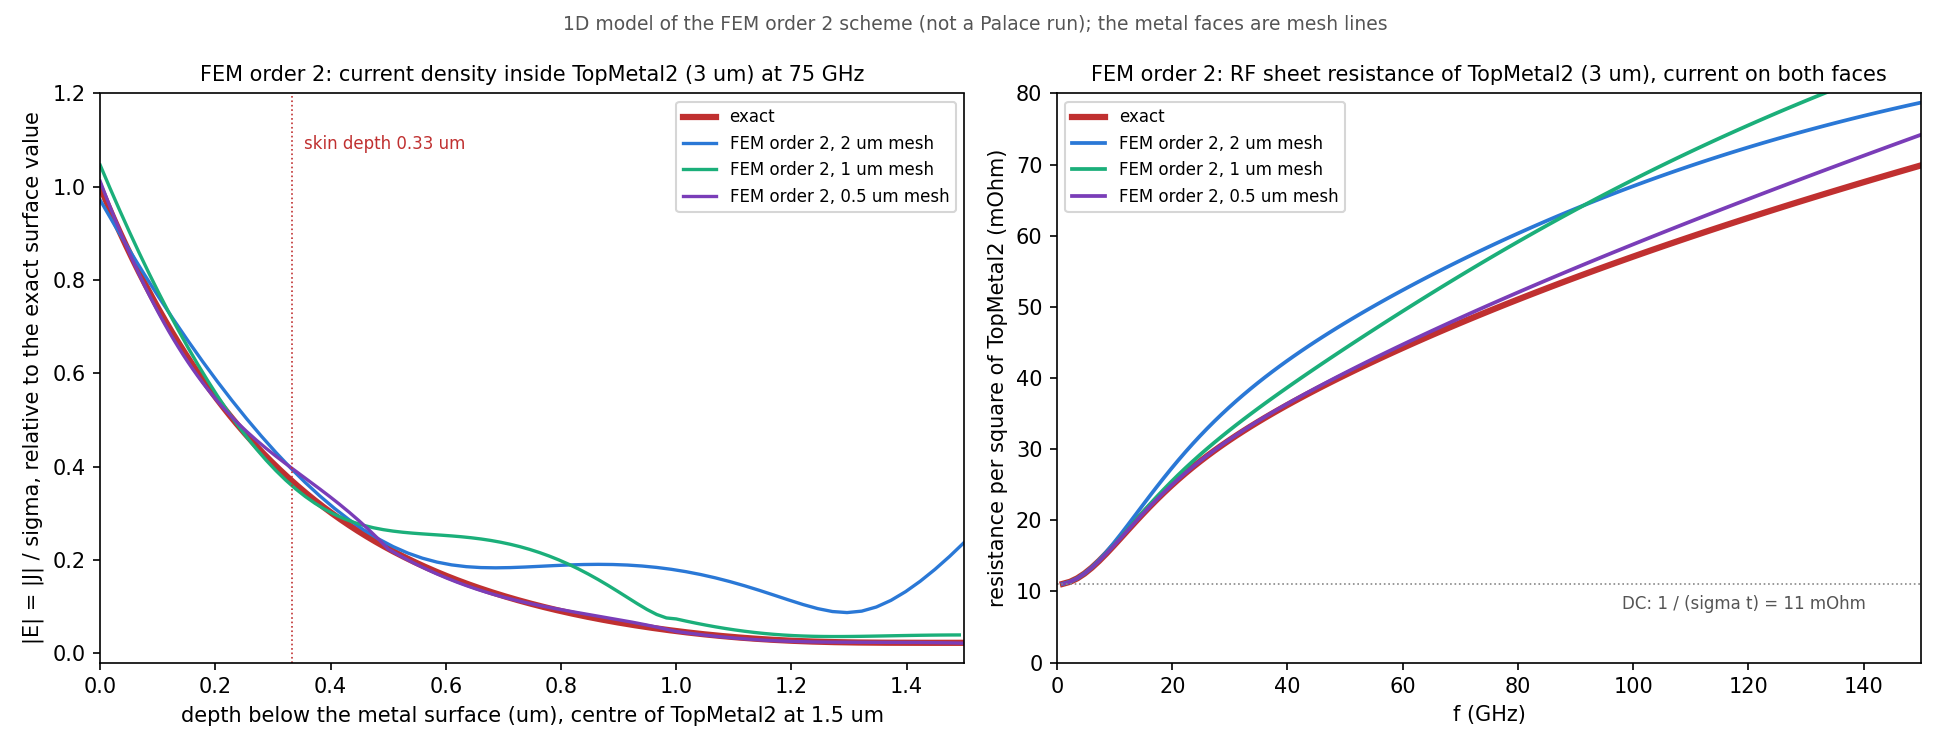
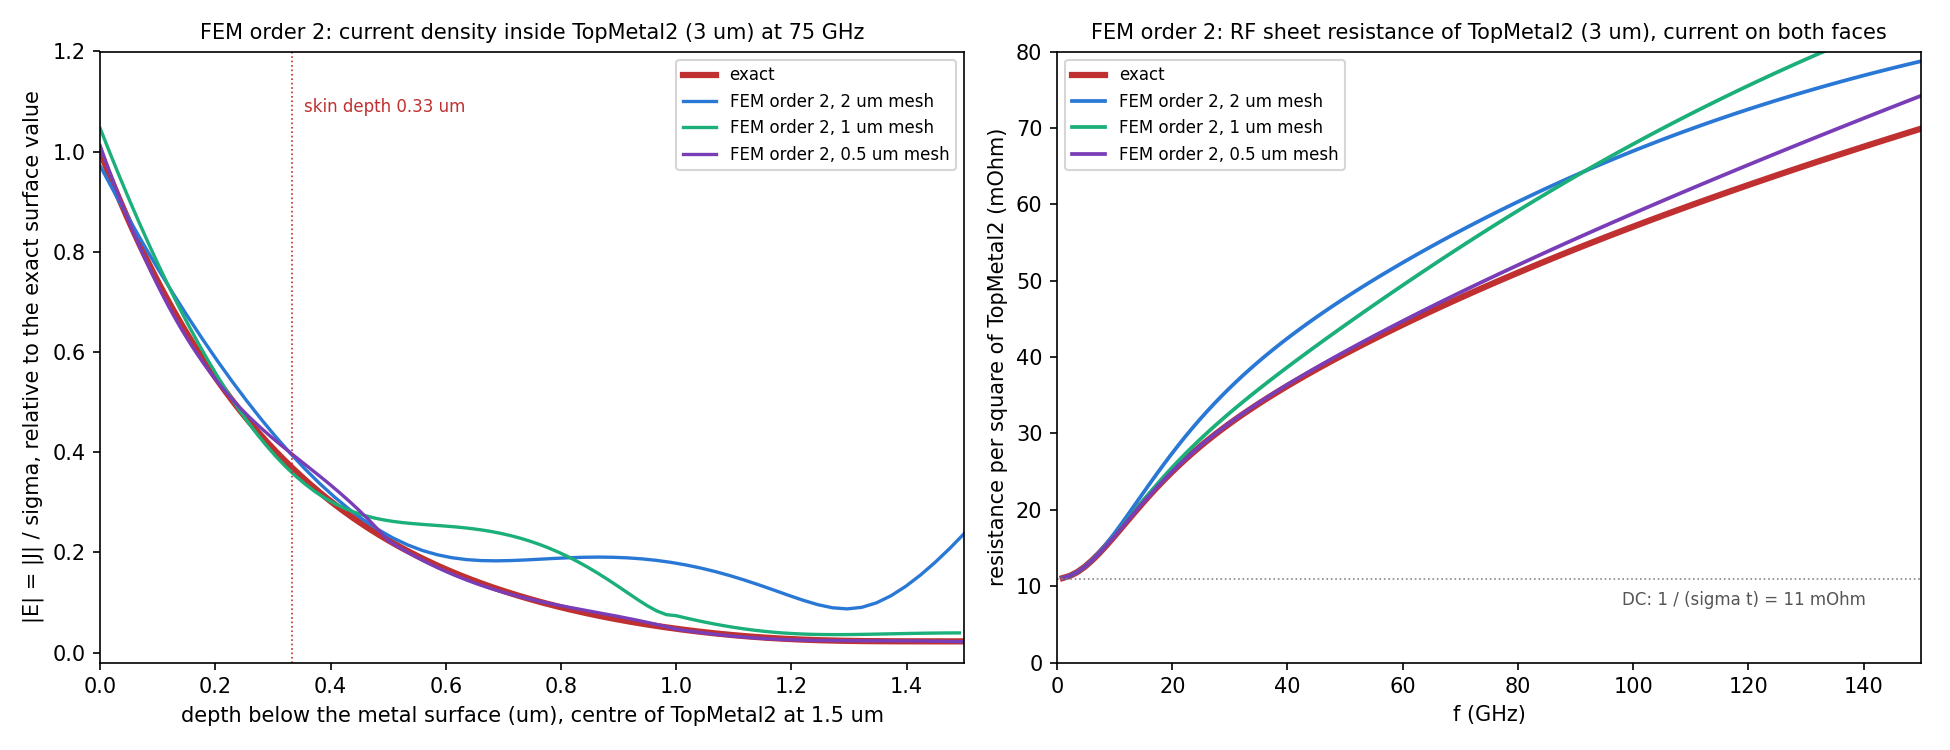
L6n2 study v3: skin effect note, much less critical than expected
The note that a volume mesh must mesh into the skin effect is rephrased: second order FEM
follows the current decay even with cells several skin depths thick; the figure compares it
with the exact solution, and the error table shows when a finer mesh is needed (mm-wave).

diff --git a/more_examples/measured_vs_simulated/more_accurate_models_L6n2_v3/results/skin_1d_fem.py b/more_examples/measured_vs_simulated/more_accurate_models_L6n2_v3/results/skin_1d_fem.py
@@ -96,8 +96,6 @@ def figure(method, solve, meshes, filename, fr, ref):
     ax2.set_ylabel('resistance per square of TopMetal2 (mOhm)')
     ax2.set_title(f'{method}: RF sheet resistance of TopMetal2 (3 um), current on both faces', fontsize=10)
     ax2.legend(fontsize=8, loc='upper left')
-    fig.suptitle('1D model of the FEM order 2 scheme (not a Palace run); the metal faces are mesh lines',
-                 fontsize=9, color='#555555')
     fig.tight_layout()
     fig.savefig(os.path.join(HERE, 'plots', filename), dpi=150)
     plt.close(fig)

diff --git a/more_examples/measured_vs_simulated/more_accurate_models_L6n2_v3/README.md b/more_examples/measured_vs_simulated/more_accurate_models_L6n2_v3/README.md
@@ -148,13 +148,11 @@ Volume meshing of filled conductors means more mesh cells and more memory. The s
 
 What is not shown in this table: Palace also calculates internal "quality" metrics from the FEM solution. These error indicator values are approximately twice as much for the volume mesh model. This indicates that we might need a smaller refined_cellsize value for the volume mesh model. We will come back to that later, for the "ultimate" final model with best accuracy.
 
-**IMPORTANT NOTE:  For accurate loss calculation, volume mesh requires to mesh into skin effect! In this frequency range here, δ = 0.91µm @ 10 GHz, so we might be already on the edge: mesh refined along the edges is enforced by settings['refined_cellsize']=2 micron here. This gets even harder at higher frequencies where the skin depth becomes much smaller than 1 µm, e.g. 0.41µm @ 50 GHz and 0.2 µm @ 200 GHz.**
+**Note on skin effect:** with a volume mesh, the current distribution inside the conductor must be resolved, and the skin depth of TopMetal2 is smaller than the 2 µm mesh above a few GHz (δ = 0.91 µm @ 10 GHz, 0.41 µm @ 50 GHz). This turned out to be much less critical than expected: the second order finite elements used by Palace follow the current decay into the metal even when a mesh cell is several skin depths thick. The plot below compares them with the exact solution for the 3 µm thick TopMetal2, where a 2 µm mesh means two cells of 1.5 µm through the metal. Left: current density from the surface to the centre of the metal at 75 GHz. Right: RF resistance per square of TopMetal2, which starts at the DC value of 11 mΩ and rises as the current moves to the surfaces.
 
-How far off is a filled metal when the cells are larger than the skin depth? The plot below answers this for the 3 µm thick TopMetal2 with a simple 1D model: the field across the metal, computed with the same order 2 finite elements that Palace uses, compared with the exact solution ([results/skin_1d_fem.py](results/skin_1d_fem.py)). A 2 µm mesh means two cells of 1.5 µm through the metal. Left: current density from the surface to the centre of the metal at 75 GHz. Right: the RF resistance per square of TopMetal2, which starts at the DC value of 11 mΩ and rises as the current moves to the surfaces.
+![Order 2 FEM vs. exact solution: current density inside TopMetal2 and RF sheet resistance for different mesh sizes](results/plots/skin_1d_fem.png)
 
-![FEM order 2: current density inside TopMetal2 and RF sheet resistance for different mesh sizes](results/plots/skin_1d_fem.png)
-
-Inside each cell, the order 2 elements let the field bend, so even a 1.5 µm cell follows the decay near the surface quite well. But it leaves some current too deep in the metal, so the resistance comes out too high once the skin depth is a fraction of the cell size:
+Only when the skin depth is a fraction of the cell size, some current is left too deep in the metal, and the resistance comes out too high:
 
 | mesh | 10 GHz | 20 GHz | 50 GHz | 100 GHz |
 |---|---:|---:|---:|---:|
@@ -162,7 +160,7 @@ Inside each cell, the order 2 elements let the field bend, so even a 1.5 µm cel
 | 1 µm | +0.5 % | +2.3 % | +9 % | +19 % |
 | 0.5 µm | 0 % | 0 % | +0.7 % | +3 % |
 
-For this inductor, with SRF at 11 GHz, the 2 µm mesh is good enough: the 1D model predicts an error of about 2 % in conductor loss at 10 GHz, and the 1 µm "ultimate" model in section 7 indeed changes peak Q by only 1.4 %. For inductors and lines at mm-wave frequencies, the error of the 2 µm mesh grows to 10-20 %, and a finer mesh is needed in the conductors. This is a 1D model of the numerical method, not a Palace run: in a real layout, edges and corners add their own mesh error, and the field at the faces is not symmetric.
+For this inductor, with SRF at 11 GHz, the 2 µm mesh is good enough: about 2 % in conductor loss at 10 GHz, and the 1 µm "ultimate" model in section 7 indeed changes peak Q by only 1.4 %. For inductors and lines at mm-wave frequencies, the error of the 2 µm mesh grows to 10-20 %, and a finer mesh is needed in the conductors.
 
 
 ## 4. Conformal passivation over TopMetal2
